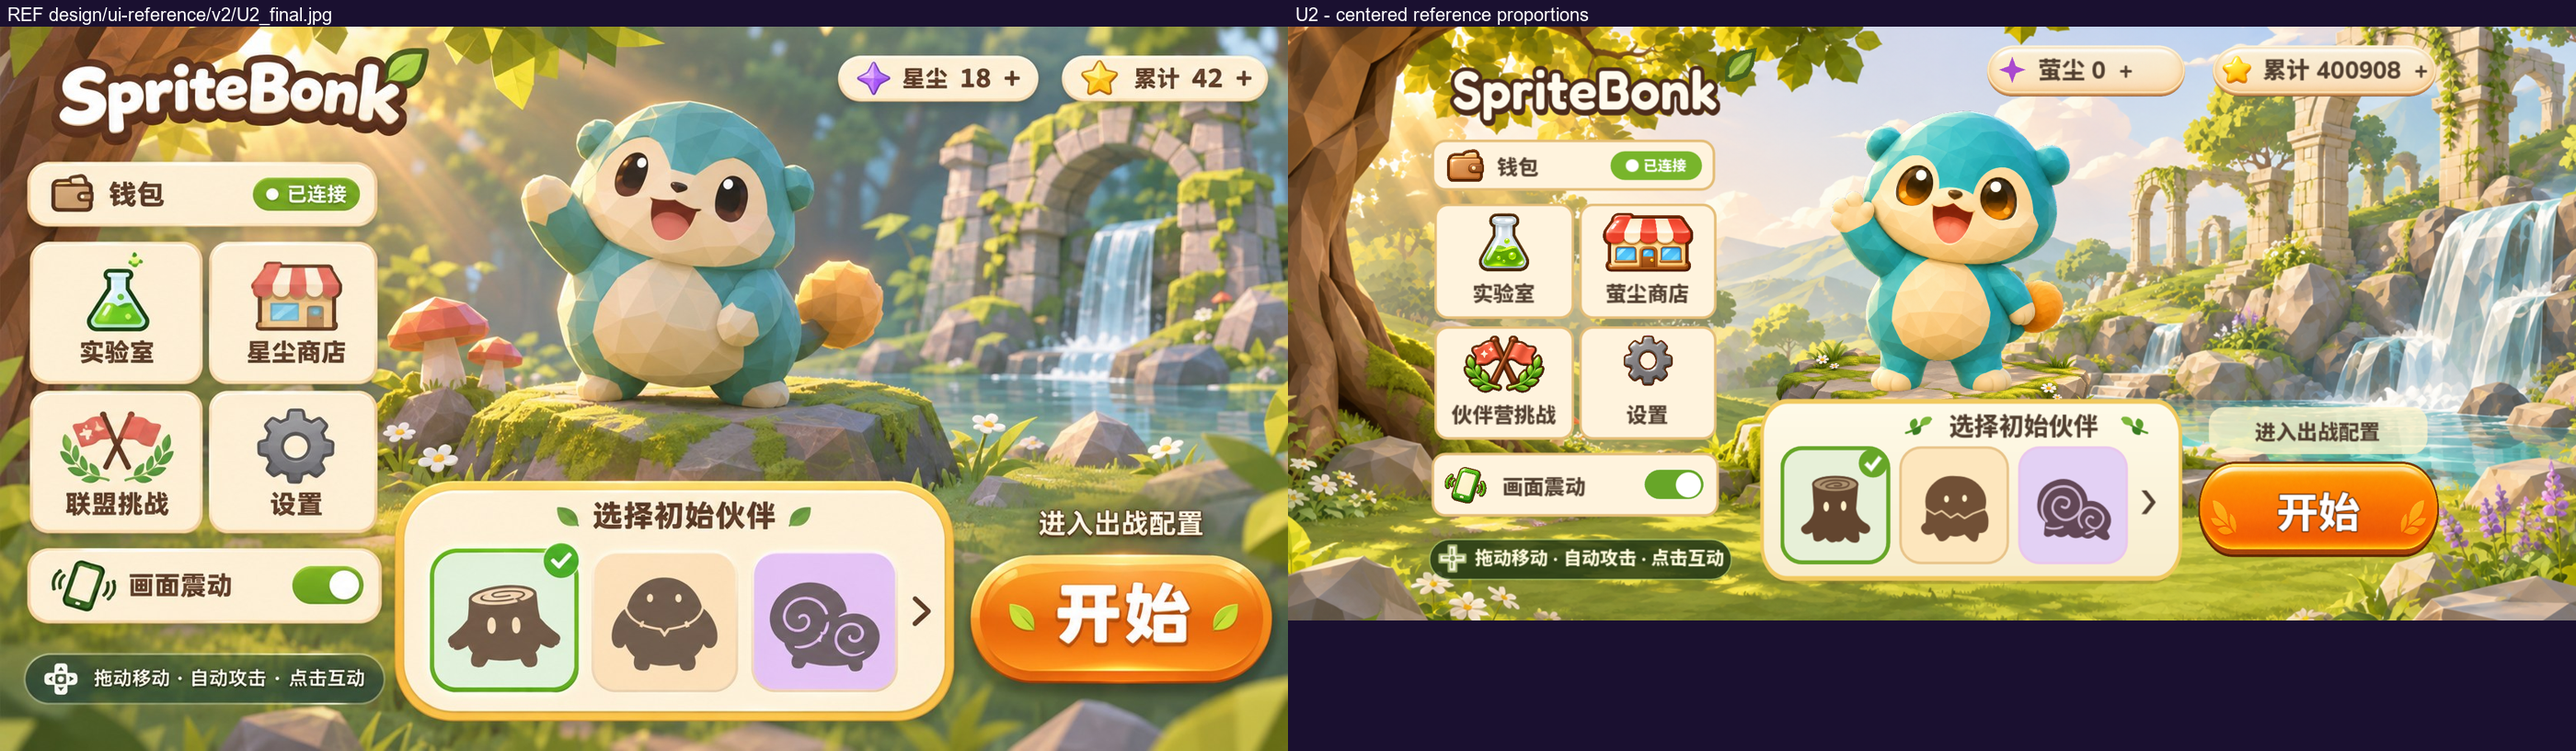
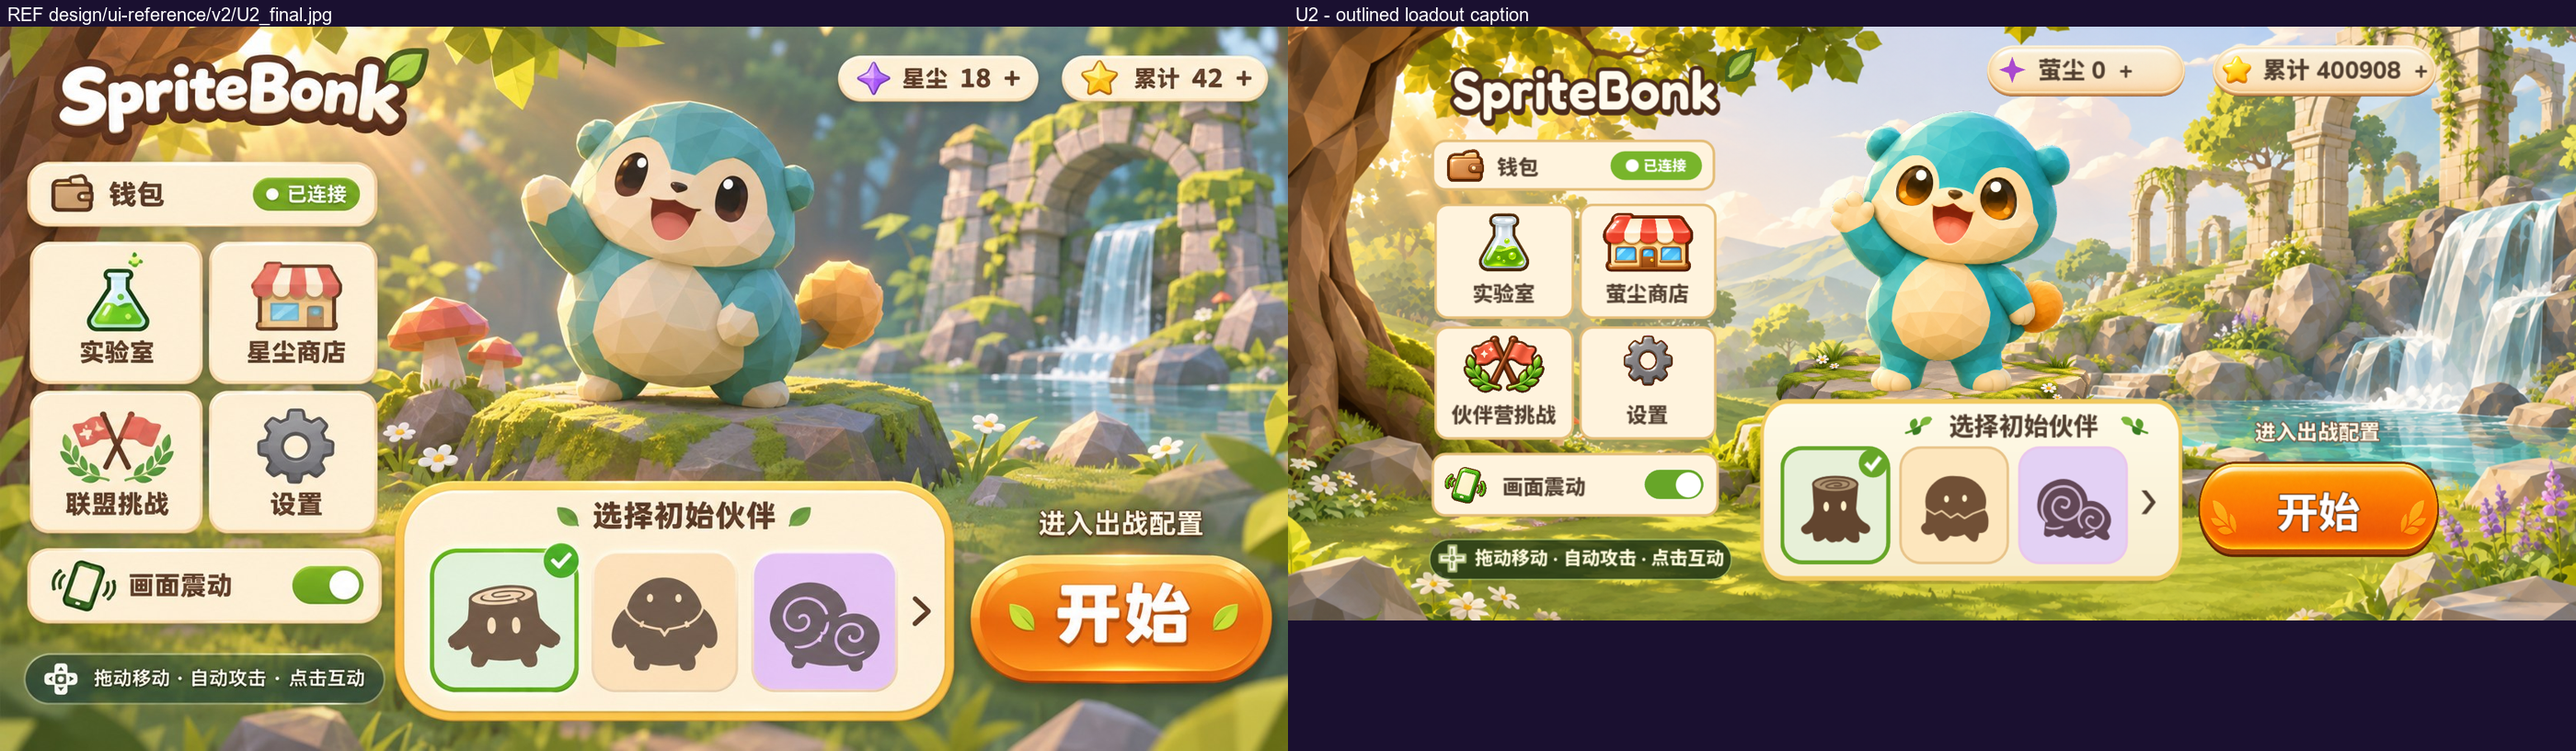
Match U2 loadout caption to the outlined reference lettering

Changed region(s): [[0.8389, 0.5202, 0.9632, 0.612], [0.5282, 0.0, 0.6214, 0.0306]]

diff --git a/design/ui-alignment-progress.md b/design/ui-alignment-progress.md
@@ -299,3 +299,9 @@ U1 已重开，U3 不得开工（见「关闭门」）。第 9 轮：2340 复验
 - 用户要求整个界面确认无问题后再进入下一屏。整屏仍有超宽横向拉伸，本轮将手机菜单参考面限制为 1672:941 比例并居中，伙伴卡按托盘等比缩放，消除第三卡被裁及额外滚动条。
 - 固定字体下限使完整操作提示比参考占宽，本轮自行将托盘左缘由参考 x514 调至 x560、宽724调至678，给提示留间隔；此项为施工适配决定，明确留作验收核对。提示底条按文字最小宽度扩展。
 - 首轮比例调整被菜单不相交检查检出提示越界，修正后 `u2-uniform-final` 双档菜单 **120/0**。2340 实拍已目检，三卡完整、图标及文字无裁切，角色脚底落在台面。角色造型、现成图标高光和场景细节仍与定稿有可见差异，U2 继续开放。
+
+## U2 出战说明续核
+
+- 定稿中的出战说明为白字棕描边，本轮将额外奶油底条清空，保留原文字安全范围，字体改为奶油白与深棕描边。双档菜单 **120/0**，2340 后台实拍已目检，文字完整且湖面背景可见。
+- 两张仓库背景均已做缩略图核对，`v2-background.png` 的石拱瀑布及石台位置更接近定稿。当前仍有背景细节与角色姿态差异，继续留本屏。
+- 完整批 `u2-caption-full-2340.log` **1489/2**、`u2-caption-full-2400.log` **1571/3**，逐名对比起点新增失败均为 0。两档新截图保存完成、操作往返通过，无 SCRIPT ERROR，退出时仍有既有 free_static 崩溃，双档 compare 已刷新。
